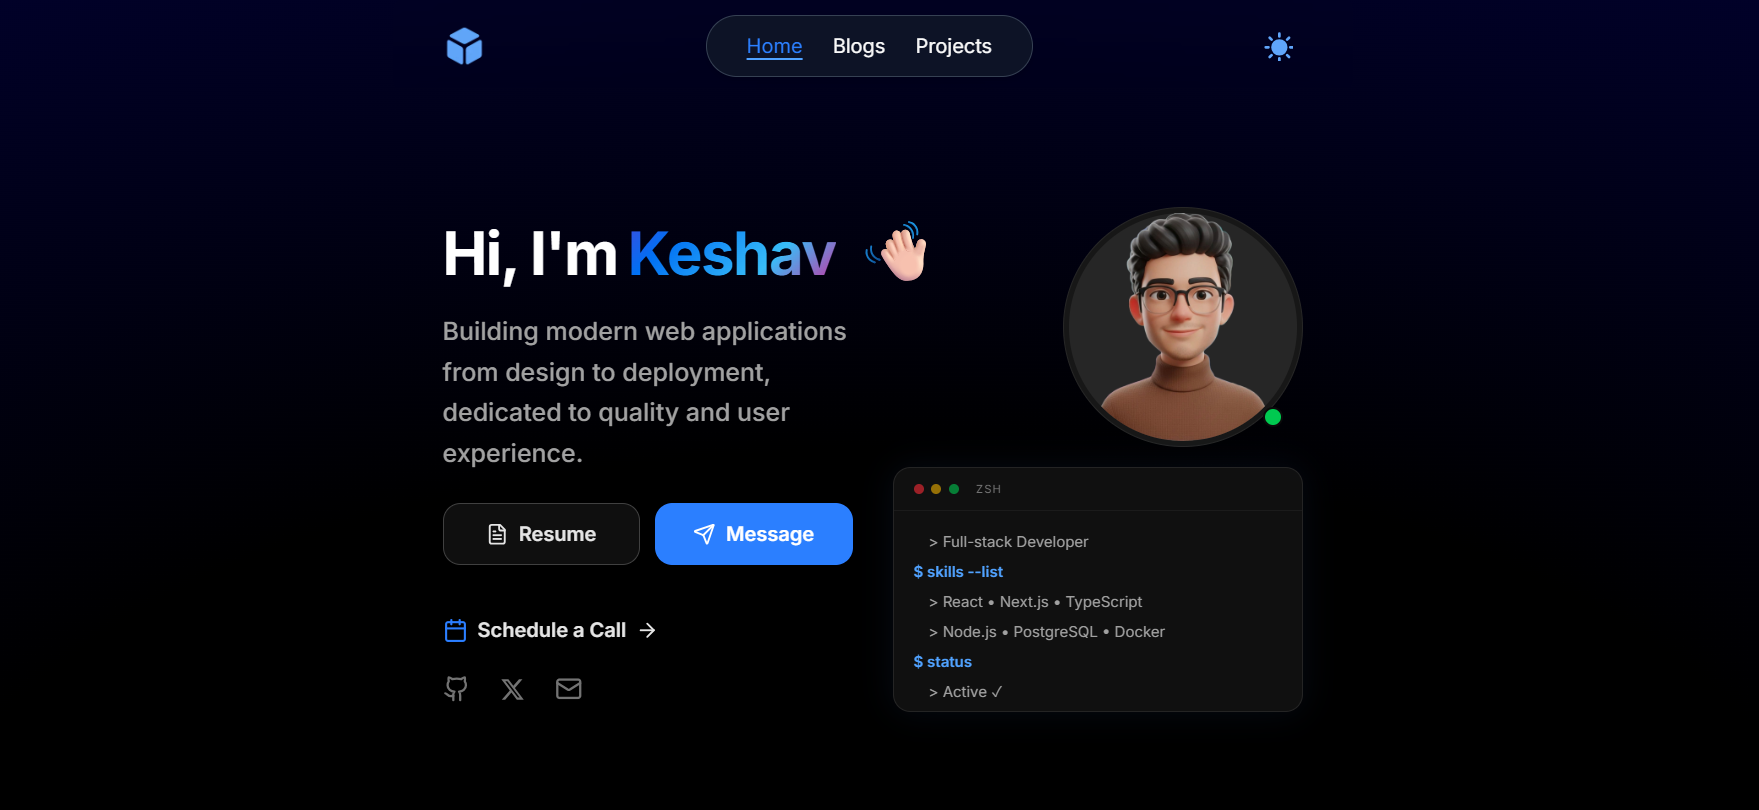
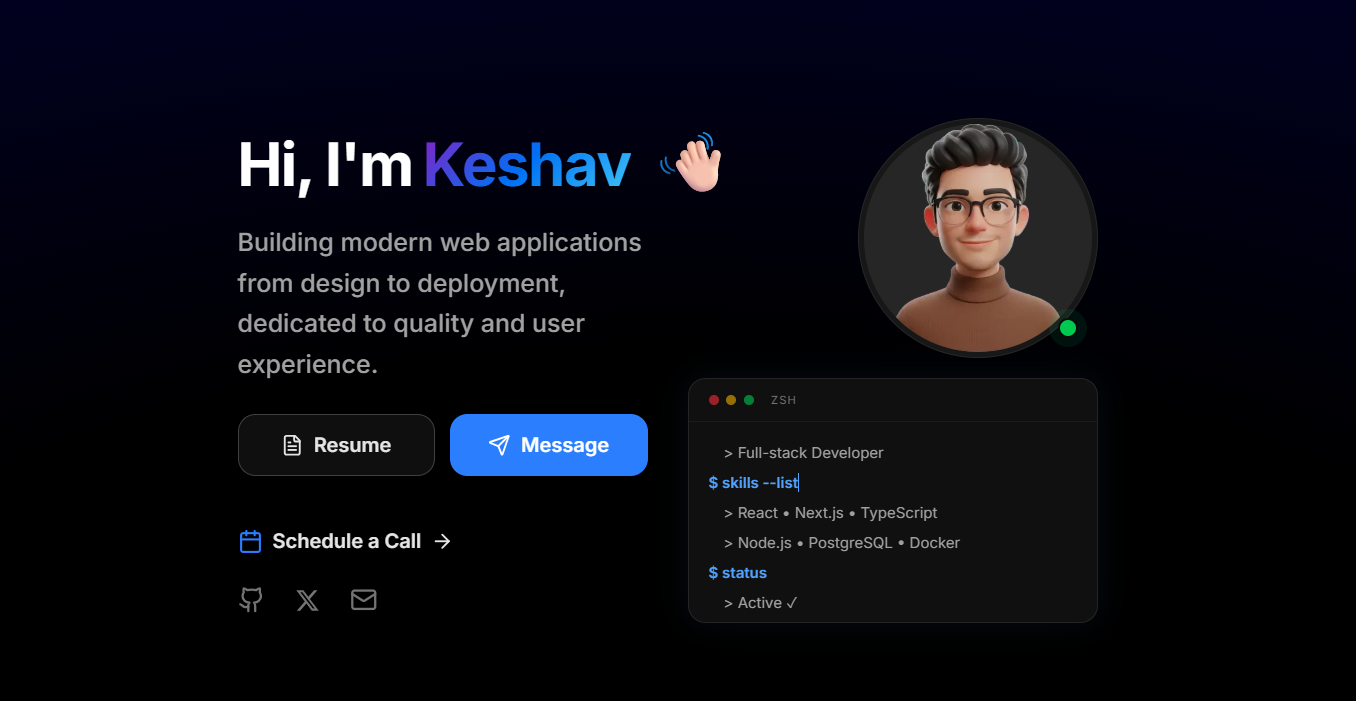
feat:ChatWay final push

diff --git a/src/app/layout.tsx b/src/app/layout.tsx
@@ -5,7 +5,7 @@ import GradientBackground from '@/components/common/GradientBackground';
 import Navbar from '@/components/common/Navbar';
 import PageLoader from '@/components/common/PageLoader';
 import Providers from '@/components/common/Providers';
-import TawkChat from '@/components/common/TawkChat';
+import ChatwayChat from '@/components/common/ChatwayChat';
 // import { Quote } from '@/components/common/Quote';
 import { generateMetadata as getMetadata } from '@/config/Meta';
 import { ViewTransitions } from 'next-view-transitions';
@@ -54,7 +54,7 @@ export default function RootLayout({
             <Footer />
             <BackToTop />
             <UmamiAnalytics />
-            <TawkChat />
+            <ChatwayChat />
           </Providers>
         </body>
       </html>

diff --git a/src/components/common/ChatwayChat.tsx b/src/components/common/ChatwayChat.tsx
@@ -1,0 +1,24 @@
+'use client';
+
+import { useEffect } from 'react';
+
+export default function ChatwayChat() {
+  useEffect(() => {
+    // Load Chatway script
+    const script = document.createElement("script");
+    script.id = "chatway";
+    script.async = true;
+    script.src = "https://cdn.chatway.app/widget.js?id=1ImiXJqDCMiV";
+    document.body.appendChild(script);
+
+    // Cleanup function to remove script on unmount
+    return () => {
+      const existingScript = document.getElementById("chatway");
+      if (existingScript) {
+        existingScript.remove();
+      }
+    };
+  }, []);
+
+  return null;
+}

diff --git a/src/components/common/BackToTop.tsx b/src/components/common/BackToTop.tsx
@@ -33,7 +33,7 @@ export default function BackToTop() {
         <Button
           variant="outline"
           size="icon"
-          className="hover:cursor-pointer fixed bottom-4 right-10 md:right-20 z-50 bg-white dark:bg-black"
+          className=" hidden md:flex hover:cursor-pointer fixed bottom-4 right-10 md:right-20 z-50 bg-white dark:bg-black"
           onClick={() => {
             window.scrollTo({ top: 0, behavior: 'smooth' });
           }}

diff --git a/src/config/About.tsx b/src/config/About.tsx
@@ -22,5 +22,5 @@ export const mySkills = [
 
 export const about = {
   name: 'Keshav',
-  description: `Full-stack developer with hands-on experience in developing end-to-end web applications`,
+  description: `Building modern web applications from design to deployment, dedicated to quality and user experience.`,
 };
